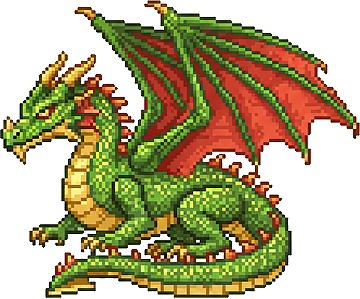
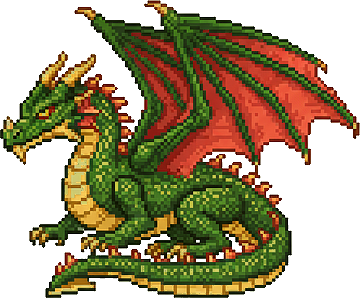
Green dragon: darker green, 1.1x, stands further back, glowing red eye; new skill 龍威
Claude-Session: https://claude.ai/code/session_01SUwomDD9kMFXsyXz3DtJr2

diff --git a/battle/index.html b/battle/index.html
@@ -242,11 +242,11 @@ var BFORM={1:[[130,20]],2:[[138,20],[115,14]],3:[[139,20],[116,33],[112,6]],4:[[
 function mslots(ms){var n=Math.max(1,Math.min(5,ms.length)),bi=-1;ms.forEach(function(m,i){if(m.boss&&bi<0)bi=i});
   if(bi<0)return ms.map(function(m,i){return MFORM[n][Math.min(i,n-1)]});var F=ms[bi].k==='dragon'?DFORM:BFORM,q=1;return ms.map(function(m,i){return i===bi?F[n][0]:F[n][Math.min(q++,n-1)]})}
 /* 龍這種大隻的王：王往後站一點，小怪站在牠前面的上下兩側，盡量不擋住龍頭 */
-var DFORM={1:[[124,18]],2:[[124,16],[104,34]],3:[[124,14],[104,34],[100,4]],4:[[124,14],[106,34],[96,20],[102,2]],5:[[124,14],[108,34],[96,26],[102,6],[92,0]]};
+var DFORM={1:[[130,18]],2:[[132,16],[104,34]],3:[[132,14],[104,34],[100,4]],4:[[132,14],[106,34],[96,20],[102,2]],5:[[132,14],[108,34],[96,26],[102,6],[92,0]]};
 function img(src){var i=new Image();i.src=src;i.className='sp';i.draggable=false;return i}
 var party=[],mons=[],SLIME=null,SKI={},SKC={},MEMB=[];
 /* 有待機特效的怪物：上半身每個週期往下壓 1 格（呼吸／喘氣），特效另外畫在特效層 */
-var ANI={boar:{n:'野豬',f:'monster_04',leg:20,per:460,fx:'puff',at:[0,14]},snake:{n:'青蛇',f:'monster_05',leg:10,per:1700,sin:1,fx:'tongue',at:[0,4]},wolf:{n:'灰狼',f:'monster_06',leg:22,per:430,fx:'drool',at:[8,16]},dragon:{n:'綠龍',f:'monster_boss_02',leg:40,per:1500,sin:1,fx:'',at:[0,0]}};
+var ANI={boar:{n:'野豬',f:'monster_04',leg:20,per:460,fx:'puff',at:[0,14]},snake:{n:'青蛇',f:'monster_05',leg:10,per:1700,sin:1,fx:'tongue',at:[0,4]},wolf:{n:'灰狼',f:'monster_06',leg:22,per:430,fx:'drool',at:[8,16]},dragon:{n:'綠龍',f:'monster_boss_02',leg:44,per:1500,sin:1,fx:'eye',at:[9,25]}};
 function aniFrame(k,now){var A=ANI[k],im=A.im;if(!im||!im.naturalWidth)return '';A.c=A.c||{};var ph=(now%A.per)/A.per,dy=A.sin?(Math.sin(ph*Math.PI*2)>0?1:0):(ph<.5?1:0);if(A.c[dy])return A.c[dy];
   var w=im.naturalWidth,h=im.naturalHeight,c=document.createElement('canvas');c.width=w;c.height=h;var x=c.getContext('2d');x.imageSmoothingEnabled=false;x.drawImage(im,0,A.leg,w,h-A.leg,0,A.leg,w,h-A.leg);x.drawImage(im,0,0,w,A.leg,0,dy,w,A.leg);return A.c[dy]=c.toDataURL()}
 function aniDy(k,now){var A=ANI[k],ph=(now%A.per)/A.per;return A.sin?(Math.sin(ph*Math.PI*2)>0?1:0):(ph<.5?1:0)}
@@ -269,7 +269,7 @@ function build(){
   MEMB.slice(0,4).forEach(function(p,i){var sh=el('div','sh'),c=document.createElement('canvas');c.width=c.height=48;c.className='sp';
     var hb=el('div','hpb');hb.appendChild(el('i'));party.push({i:i,f:c,sh:sh,hb:hb,ph:Math.random()*2000,look:look(p),far:['杖','書','弓'].indexOf(p.weapon)>=0});frame.appendChild(sh);frame.appendChild(c);frame.appendChild(hb);els.push(sh,c,hb)});
   if(!B)return;var sl=mslots(B.mons);
-  B.mons.forEach(function(m,i){var o={k:m.k,sc:m.k==='dragon'?1:m.boss?(m.k==='sk'?1.5:1.2):1,f:img(''),sh:el('div','sh'),hb:el('div','hpb m'),x:sl[i][0],dy:sl[i][1],ph:Math.random()*900};var hw=msz(m.k)[0]*o.sc/2;if(o.x+hw>UW-1)o.x=UW-1-hw;/* 大隻的（龍）往左收，免得超出畫面 */o.hb.appendChild(el('i'));frame.appendChild(o.sh);frame.appendChild(o.f);frame.appendChild(o.hb);els.push(o.sh,o.f,o.hb);mons.push(o)});
+  B.mons.forEach(function(m,i){var o={k:m.k,sc:m.k==='dragon'?1:m.boss?(m.k==='sk'?1.5:1.2):1,f:img(''),sh:el('div','sh'),hb:el('div','hpb m'),x:sl[i][0],dy:sl[i][1],ph:Math.random()*900};var hw=msz(m.k)[0]*o.sc/2;if(m.k!=='dragon'&&o.x+hw>UW-1)o.x=UW-1-hw;/* 太大隻的往左收，免得超出畫面；龍故意站後面，尾巴被切掉沒關係 */o.hb.appendChild(el('i'));frame.appendChild(o.sh);frame.appendChild(o.f);frame.appendChild(o.hb);els.push(o.sh,o.f,o.hb);mons.push(o)});
 }
 function ease(t){return t<0?0:t>1?1:t*t*(3-2*t)}
 /* 血條：顯示在腳下；hide 時藏起來 */
@@ -412,6 +412,7 @@ function drawVfx(t){shakeY=0;if(!B)return;
 /* 怪物待機特效：野豬鼻息、灰狼口水、青蛇吐信 */
 function drawIdle(now){if(!B)return;mons.forEach(function(m){var A=ANI[m.k];if(!A||!m.alive)return;var MZ=msz(m.k),sc=m.sc,ox=m.lx-MZ[0]*sc/2,oy=m.gy-MZ[1]*sc,dy=aniDy(m.k,now),ax=ox+A.at[0]*sc,ay=oy+(A.at[1]+dy)*sc,t=now+m.ph*3;
   if(A.fx==='puff'){var c=t%1800;for(var i=0;i<3;i++){var u=(c-i*120)/700;if(u<0||u>1)continue;VP(ax-2-u*7,ay-u*3-i,'#e8e4dc',(1-u)*.85)}}
+  else if(A.fx==='eye'){var pu=.75+.25*Math.sin(t/260);VP(ax,ay,'#ff6a4a',pu);VP(ax+1,ay,'#ff3a24',.9*pu);[[-1,0],[2,0],[0,-1],[1,-1],[0,1],[1,1]].forEach(function(o){VP(ax+o[0],ay+o[1],'#ff2a14',.5*pu)});[[-2,0],[3,0],[-1,-1],[2,-1],[-1,1],[2,1],[0,-2],[1,-2],[0,2],[1,2]].forEach(function(o){VP(ax+o[0],ay+o[1],'#ff200c',.22*pu)})}
   else if(A.fx==='drool'){var c2=t%2600;if(c2<1300){var len=1+Math.floor(c2/1300*3);for(var j=0;j<len;j++)VP(ax,ay+1+j,'#d8ecf4',.85);VP(ax,ay+len,'#ffffff',.9)}
     else if(c2<1900){var u2=(c2-1300)/600,yy=ay+4+u2*u2*(m.gy-ay-4);VP(ax,yy,'#d8ecf4',.9);VP(ax,yy+1,'#ffffff',.7)}
     else if(c2<2150){var u3=(c2-1900)/250;VP(ax-1,m.gy-1,'#d8ecf4',.6*(1-u3));VP(ax+1,m.gy-1,'#d8ecf4',.6*(1-u3))}}
@@ -674,7 +675,7 @@ function start(me,mem){
   MEMB=[me].concat(mem);NavIcons.setPlayer(me);
   $('who').textContent='隊伍：'+MEMB.slice(0,4).map(function(p){return p.name}).join('、');
   $('loading').remove();renderTabs();showView('map');var o=curLoad();if(o)resume(o)}
-Promise.all([['weapon_info.csv','rune_info.csv','weapon_rune.csv','skill_info.csv','skill_effect.csv','status_info.csv','job_attribute.csv','job_level_up.csv','pet_info.csv','monster_info.csv','stage_info.csv'].map(getCSV),getJSON(AS+'clouds.json'),getJSON(AS+'fx_02.json'),getJSON(AS+'fx_06.json'),loadPx(BASE+'monsters/monster_01.png'),loadPx(BASE+'monsters/monster_02.png'),loadPx(BASE+'monsters/monster_02_blink.png'),loadPx(BASE+'monsters/monster_03.png'),loadPx(BASE+'monsters/monster_03_blink.png'),loadPx(BASE+'monsters/monster_boss_01.png'),loadPx(BASE+'monsters/monster_boss_01_blink.png'),loadPx(BASE+'monsters/monster_04.png'),loadPx(BASE+'monsters/monster_05.png'),loadPx(BASE+'monsters/monster_06.png'),loadPx(BASE+'monsters/monster_boss_02.png?v=1')].concat([0,1,2,3,4,5,6,7].map(function(k){return loadPx(BASE+'vfx/slash_0'+k+'.png?v=4')})).concat([0,1,2,3,4,5,6,7].map(function(k){return loadPx(BASE+'vfx/arrow_0'+k+'.png?v=1')})).concat([0,1,2,3,4,5,6,7].map(function(k){return loadPx(BASE+'vfx/missile_0'+k+'.png?v=3')})).concat([0,1,2,3,4,5,6,7].map(function(k){return loadPx(BASE+'vfx/thrust_0'+k+'.png?v=1')})).concat([0,1,2,3,4,5,6,7].map(function(k){return loadPx(BASE+'vfx/smash_0'+k+'.png?v=1')})).concat([loadPx(BASE+'vfx/claw.png?v=1')]).map(function(x){return Array.isArray(x)?Promise.all(x):x})).then(function(r){
+Promise.all([['weapon_info.csv','rune_info.csv','weapon_rune.csv','skill_info.csv','skill_effect.csv','status_info.csv','job_attribute.csv','job_level_up.csv','pet_info.csv','monster_info.csv','stage_info.csv'].map(getCSV),getJSON(AS+'clouds.json'),getJSON(AS+'fx_02.json'),getJSON(AS+'fx_06.json'),loadPx(BASE+'monsters/monster_01.png'),loadPx(BASE+'monsters/monster_02.png'),loadPx(BASE+'monsters/monster_02_blink.png'),loadPx(BASE+'monsters/monster_03.png'),loadPx(BASE+'monsters/monster_03_blink.png'),loadPx(BASE+'monsters/monster_boss_01.png'),loadPx(BASE+'monsters/monster_boss_01_blink.png'),loadPx(BASE+'monsters/monster_04.png'),loadPx(BASE+'monsters/monster_05.png'),loadPx(BASE+'monsters/monster_06.png'),loadPx(BASE+'monsters/monster_boss_02.png?v=2')].concat([0,1,2,3,4,5,6,7].map(function(k){return loadPx(BASE+'vfx/slash_0'+k+'.png?v=4')})).concat([0,1,2,3,4,5,6,7].map(function(k){return loadPx(BASE+'vfx/arrow_0'+k+'.png?v=1')})).concat([0,1,2,3,4,5,6,7].map(function(k){return loadPx(BASE+'vfx/missile_0'+k+'.png?v=3')})).concat([0,1,2,3,4,5,6,7].map(function(k){return loadPx(BASE+'vfx/thrust_0'+k+'.png?v=1')})).concat([0,1,2,3,4,5,6,7].map(function(k){return loadPx(BASE+'vfx/smash_0'+k+'.png?v=1')})).concat([loadPx(BASE+'vfx/claw.png?v=1')]).map(function(x){return Array.isArray(x)?Promise.all(x):x})).then(function(r){
   var csv=r[0];ENG=BattleEngine.prepare({weapon_info:csv[0],skill_info:csv[3],skill_effect:csv[4],status_info:csv[5],job_attribute:csv[6],job_level_up:csv[7],pet_info:csv[8],monster_info:csv[9],stage_info:csv[10]});CLD=(r[1]&&r[1].clouds)||[];(csv[3]||[]).forEach(function(q){if(q.skill_id&&q.kind==='combat')SKN[q.skill_id]={n:q.skill_name,ty:q.type,all:q.target==='enemy_all',el:q.part1_element||'',vfx:q.vfx||'',hits:parseInt(q.hits,10)||1,re:q.pick==='random_each'}});
   if(r[2]){BG.B.gl={b:glArr(r[2].background),f:glArr(r[2].foreground)}}if(r[3]){BG.F.gl={b:glArr(r[3].background),f:glArr(r[3].foreground)}}
   var m=r[4];if(m){var c=document.createElement('canvas');c.width=c.height=40;var x=c.getContext('2d');x.drawImage(m,0,0);var d=x.getImageData(0,0,40,40).data,x0=40,y0=40,x1=-1,y1=-1;for(var y=0;y<40;y++)for(var xx=0;xx<40;xx++)if(d[(y*40+xx)*4+3]>0){if(xx<x0)x0=xx;if(xx>x1)x1=xx;if(y<y0)y0=y;if(y>y1)y1=y}

diff --git a/assets/monsters/readme.md b/assets/monsters/readme.md
@@ -11,7 +11,7 @@
 | monster_05 | 青蛇（怪物森林） | `monster_05.png`（原圖縮 50%，呼吸＋吐蛇信） |
 | monster_06 | 灰狼（怪物森林） | `monster_06.png`（原圖縮 75%，喘氣＋流口水） |
 | monster_boss_01 | 半獸人戰酋（怪物森林 Boss，只在王關出現） | `monster_boss_01.png`（48×48 身體）、`monster_boss_01_blink.png`（眼睛圖層） |
-| monster_boss_02 | 綠龍（怪物森林第 20 關 Boss） | `monster_boss_02.png`（72×60，原圖去背、左右翻轉後縮小；身體上半慢慢起伏） |
+| monster_boss_02 | 綠龍（怪物森林第 20 關 Boss） | `monster_boss_02.png`（79×66，原圖去背、左右翻轉、綠色壓暗後縮小；身體上半慢慢起伏，眼睛發紅光由程式畫） |
 
 規則：
 - 透明背景 PNG，面向左邊（朝向隊伍）。
